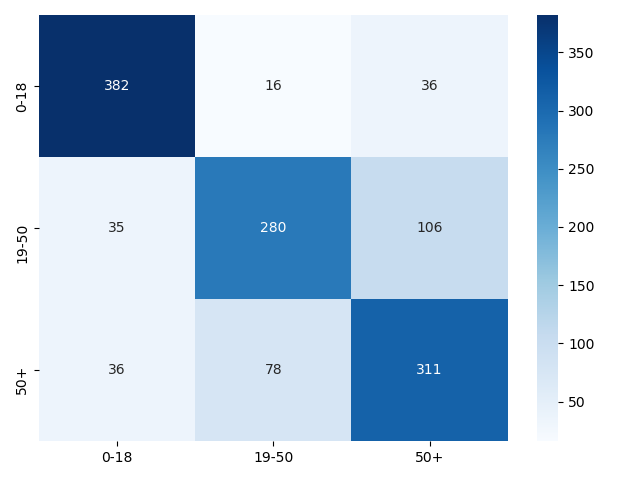
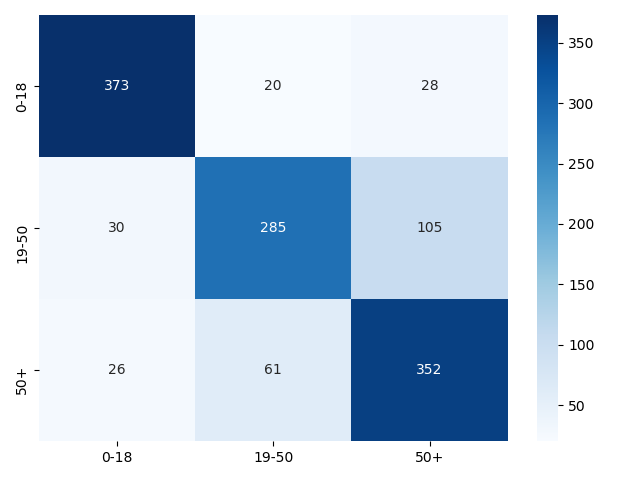
fina touches, class plots

diff --git a/Project/src/Plotter.py b/Project/src/Plotter.py
@@ -17,6 +17,7 @@ def plot_feature_importance_for_class(model, X_train):
     explainer = shap.TreeExplainer(model, data=shap.sample(X_train, 100), feature_dependence="interventional")
     shap_values = explainer.shap_values(X_train)
     shap.summary_plot(shap_values, X_train, plot_type="bar")
+     # IMPORTANT for some reason the three lines below might break if the line above this isn't commmented out
     shap.summary_plot(shap_values[0], X_train)
     shap.summary_plot(shap_values[1], X_train)
     shap.summary_plot(shap_values[2], X_train)

diff --git a/Project/src/Classifier.py b/Project/src/Classifier.py
@@ -34,7 +34,7 @@ class Classifier:
         models.append(('CART', DecisionTreeClassifier(random_state=2)))  # secondBest
         models.append(('NB', GaussianNB()))              #slow and bad
         models.append(('SVM', SVC(gamma='auto'))) #slow
-        models.append(('RFC', RandomForestClassifier(random_state=2)))  # best
+        models.append(('RFC', RandomForestClassifier(random_state=1)))  # best
 
         results = []
         names = []
